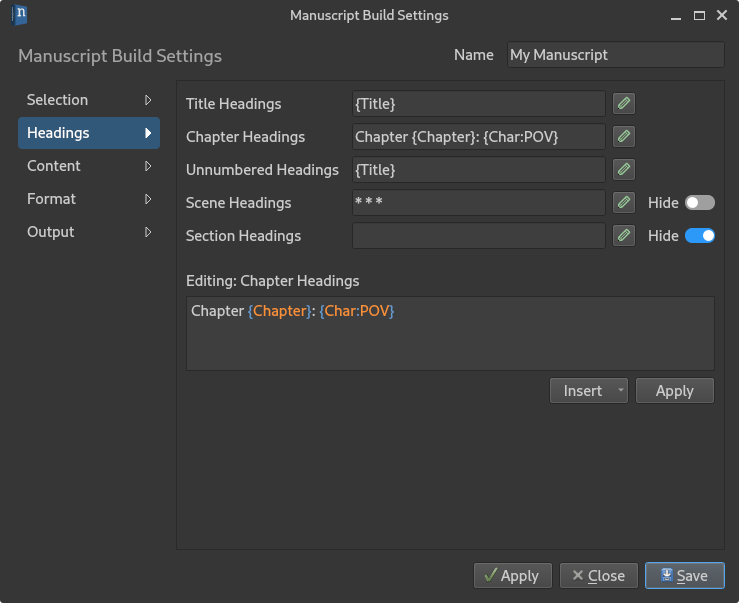
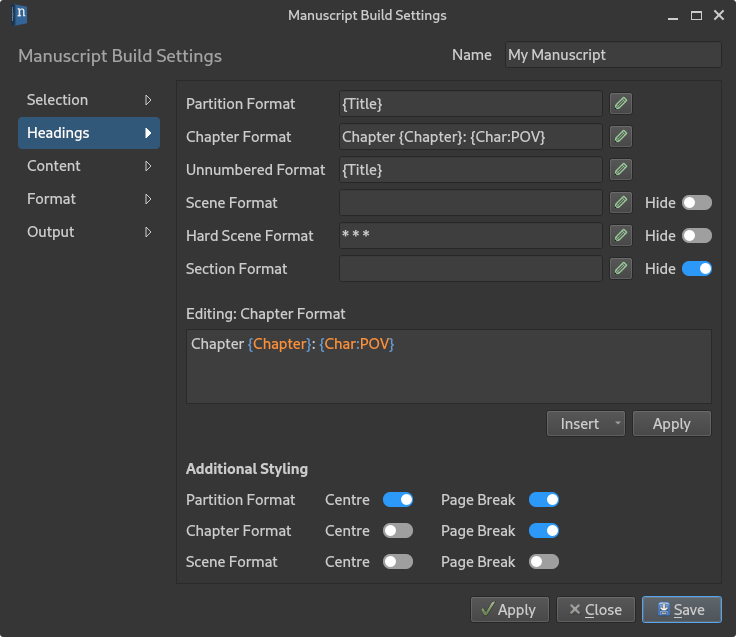
Update documentation

diff --git a/docs/source/project_manuscript.rst b/docs/source/project_manuscript.rst
@@ -63,6 +63,8 @@ In the figure, the green arrow icon and the blue pin icon indicates which docume
 and the red forbidden icon indicates that a document is explicitly excluded.
 
 
+.. _a_manuscript_settings_head:
+
 Formatting Headings
 -------------------
 
@@ -86,6 +88,7 @@ Any text you add that isn't highlighted in colours will remain in your formatted
 You can preview the result of these format strings by clicking :guilabel:`Apply`, and then clicking
 :guilabel:`Preview` in the :guilabel:`Manuscript Build` tool main window.
 
+
 Scene Separators
 ^^^^^^^^^^^^^^^^
 
@@ -97,6 +100,19 @@ setting, which will ignore them completely. That is, there won't even be an extr
 Alternatively, if you want a separator text between them, like the common ``* * *``, you can enter
 the desired separator text as the format. If the format is any piece of static text, it will always
 be treated as a separator.
+
+
+.. _a_manuscript_settings_head_hard:
+
+Hard and Soft Scenes
+^^^^^^^^^^^^^^^^^^^^
+
+If you wish to distinguish between so-called soft and hard scene breaks, where a hard scene break
+is understood as a scene break that changes point-of-view character, you can use the modified scene
+heading format in your text. You can then give these headings a different formatting in the
+:guilabel:`Headings` settings.
+
+See :ref:`a_fmt_head` for more info on how to format headings in your text.
 
 
 Output Settings

diff --git a/docs/source/usage_format.rst b/docs/source/usage_format.rst
@@ -68,7 +68,7 @@ correctly to produce the intended result. See :ref:`a_struct_heads` for more det
    Heading level four. For novel documents, the level indicates the start of a new section. Section
    titles can be replaced by separators or ignored completely when building the manuscript.
 
-For headings level one and two, adding a ``!`` modifies its meaning:
+For headings level one through three, adding a ``!`` modifies its meaning:
 
 ``#! Title Text``
    This tells the build tool that the level one heading is intended to be used for the novel's or
@@ -80,6 +80,11 @@ For headings level one and two, adding a ``!`` modifies its meaning:
    This tells the build tool to not assign a chapter number to this chapter title if automatic
    chapter numbers are being used. Such titles are useful for a prologue for instance. See
    :ref:`a_struct_heads_unnum` for more details.
+
+``###! Title Text``
+   This is an alternative scene heading that can be formatted differently in the
+   :guilabel:`Manuscript Build` tool. It is intended for separating "soft" and "hard" scene breaks.
+   Otherwise, it behaves identically to a regular scene heading.
 
 .. note::
    The space after the ``#`` or ``!`` character is mandatory. The syntax highlighter will change

diff --git a/docs/source/int_howto.rst b/docs/source/int_howto.rst
@@ -75,6 +75,10 @@ Organising Your Text
    Keep in mind that this is not what the section heading is intended for, so the app will not
    understand the section heading as a scene, but it will be formatted correctly in the manuscript.
 
+   .. versionadded:: 2.4
+      You can now distinguish between soft and hard scene breaks with a modified scene header. See
+      :ref:`a_manuscript_settings_head_hard` for more details.
+
 
 Other Tools
 ===========
